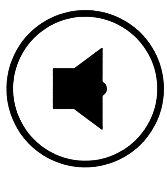
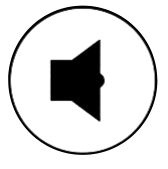
.secondContent-content
.secondContent-content

Changed region(s): [[0.0299, 0.0296, 0.988, 0.9763], [0.2695, 0.2367, 0.6587, 0.7396]]

diff --git a/booking-system/src/components/Hero/Hero.css b/booking-system/src/components/Hero/Hero.css
@@ -317,14 +317,14 @@ body {
 
 .text-style001 {
   margin-right: 10px;
-  font-size: 2em;
+  font-size: 1.5em;
   color: #ffffff;
   font-family: 'Modern Sans', sans-serif;
   cursor: pointer;
   opacity: 0;
   transform: translateX(100%);
-  animation: popIn 0.7s ease-out forwards;
-  transition: transform 0.5s ease, color 0.5s ease;
+  animation: popIn 0.9s ease-out forwards;
+  transition: transform 0.9s ease, color 0.5s ease;
   white-space: normal; /* Allow text to wrap */
 }
 
@@ -423,7 +423,7 @@ body {
 
   .text-style001 {
   margin-right: 10px;
-  font-size: 1.6rem;
+  font-size: 1.2rem;
 }
   
 }
@@ -444,7 +444,7 @@ body {
   }
   .TheSpa {
     margin-right: 10px;
-    font-size: 1.2rem;
+    font-size: 0.9rem;
     color: #ffffff;
     font-family: 'Modern Sans', sans-serif;
     opacity: 0;
@@ -695,14 +695,21 @@ gap: 12px;
 }
 
 .Pause-toggle-button img {
-  width: 50px;  /* Adjust icon size */
-  height: 50px; /* Adjust icon size */
+  width: 45px;  /* Adjust icon size */
+  height: 45px; /* Adjust icon size */
   transition: transform 0.3s ease; /* Add some interaction effect */
 }
+.volume-control-button img {
+  transition: transform 0.3s ease;
+}
 
-.Pause-toggle-button img:hover {
+.Pause-toggle-button:hover {
   transform: scale(1.1); /* Slightly enlarge on hover */
 }
+.volume-control-button img:hover {
+  transform: scale(1.1); /* Slightly enlarge on hover */
+}
+
 
 
 .play-toggle-button:hover img {
@@ -718,8 +725,8 @@ gap: 12px;
 }
 
 .volume-icon{
-  width: 50px; /* Adjust the size of the icons */
-  height: 50px; /* Keep the icons proportional */
+  width: 45px; /* Adjust the size of the icons */
+  height: 45px; /* Keep the icons proportional */
   filter: brightness(0) invert(1); /* Make the icon white */
   cursor: pointer; /* Indicate it's clickable */
 }

diff --git a/booking-system/src/components/Hero/Hero.jsx b/booking-system/src/components/Hero/Hero.jsx
@@ -5,7 +5,7 @@ import playIcon from "../../assets/images/play_icon.png";
 import pauseIcon from "../../assets/images/pause_icon.png";
 import volumeup from "../../assets/images/volumeup.png";
 import volumedown from "../../assets/images/volumedown.png";
-import backgroundImage from "../../assets/images/spa-section.jpg";
+import backgroundImage from "../../assets/images/spa-section.png";
 import Herovideo from "../../assets/images/Herovideo.mp4";
 
 const Hero = () => {

diff --git a/booking-system/src/components/Products/Products.css b/booking-system/src/components/Products/Products.css
@@ -161,6 +161,7 @@ p {
 
 .secondContent-content {
   flex: 2;
+  width: 100%;
 }
 
 .isSmallScrollbar {
